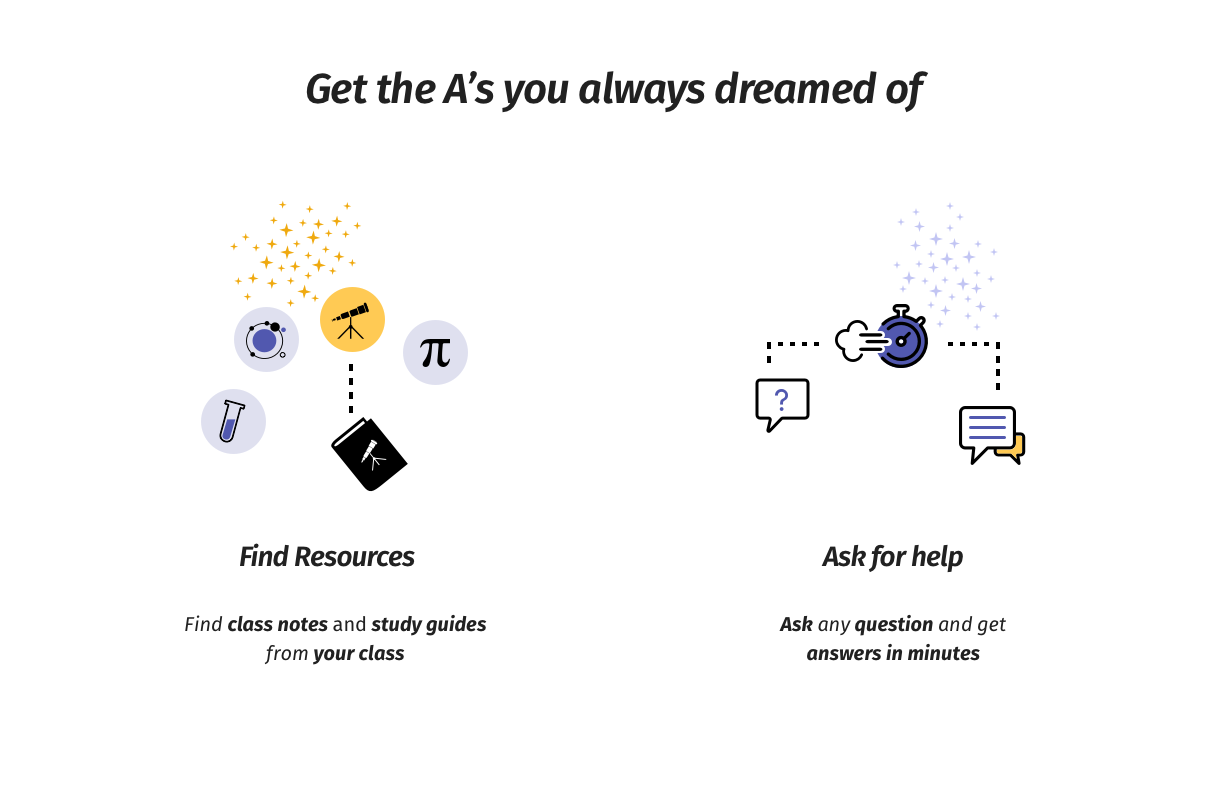
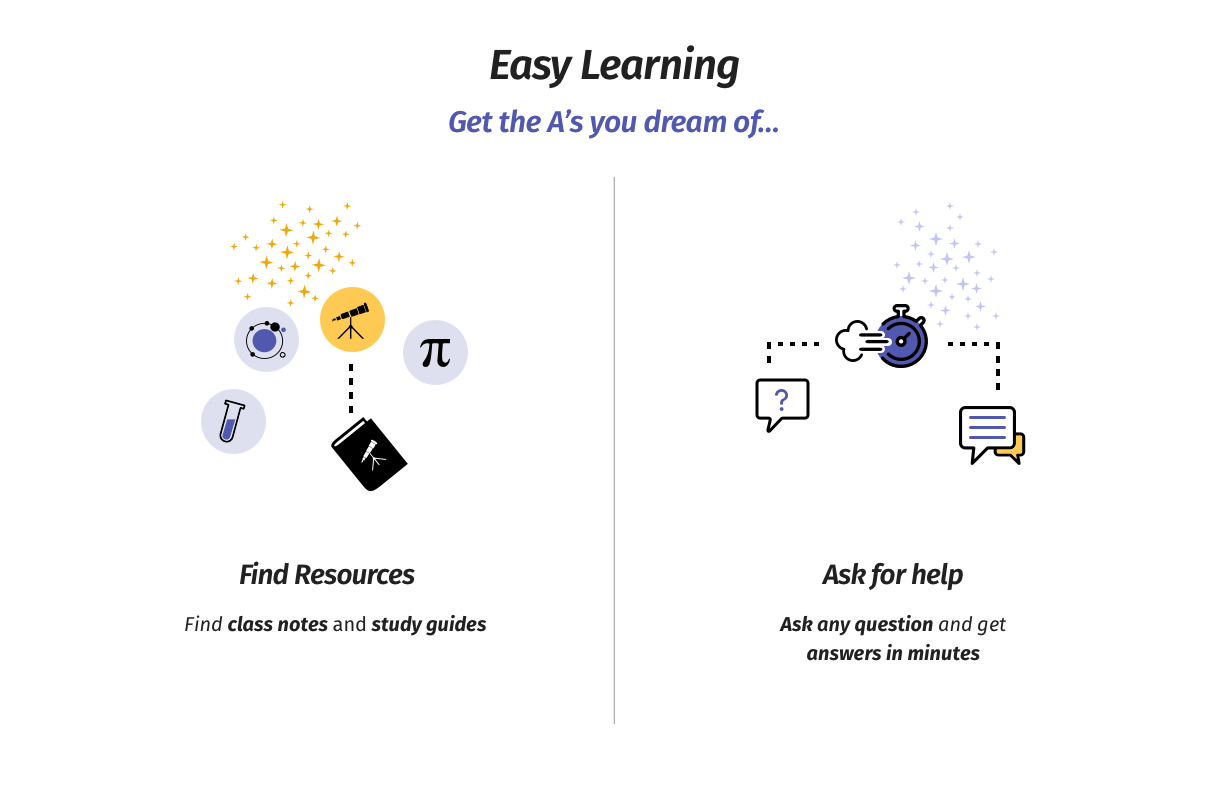
position for background fixed, images replaced for English

diff --git a/Cloudents.Web/ClientApp/components/helpers/onBoardGuide/onBoardGuide.vue b/Cloudents.Web/ClientApp/components/helpers/onBoardGuide/onBoardGuide.vue
@@ -2,11 +2,13 @@
     <div class="onboard-component">
         <div class="back-img"></div>
         <div class="guide-container">
-            <v-stepper v-model="currentStep" class="on-board-stepper" :class="{'last-step': isFinished}"
-                       :style="{ 'background-image': 'url(' + require(`${imgSrc}`) + ')' }">
+            <v-stepper v-model="currentStep" class="on-board-stepper"
+                      >
                 <!--<v-stepper-header class="elevation-0">-->
                 <!--</v-stepper-header>-->
-                <v-stepper-items class="step-items">
+                <v-stepper-items class="step-items"
+                                 :class="{'last-step': isFinished}"
+                                 :style="{ 'background-image': 'url(' + require(`${imgSrc}`) + ')' }">
                     <v-stepper-content
                             v-for="n in steps"
                             :key="`${n}-content`"
@@ -188,21 +190,26 @@
             display: flex;
             flex-direction: column;
             justify-content: space-between;
-            background-size: contain;
-            background-position: 50%;
-            background-repeat: no-repeat;
             height: 90vh;
             @media (max-width: @screen-xs) {
                 min-height: 100%;
                 //can delete after background image replaced to be elements
-                &.last-step {
-                    background-size: cover;
-                    background-position: right 0 bottom 50px;
-                }
+
             }
         }
         .step-items {
             height: 100%;
+            background-size: contain;
+            background-position: 50%;
+            background-repeat: no-repeat;
+            @media (max-width: @screen-xs) {
+                background-size: cover;
+                background-position: top;
+            }
+            &.last-step {
+                background-size: cover;
+
+            }
         }
         .guide-container {
             width: 100%;
